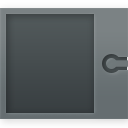
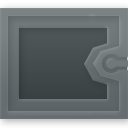
Adicionado ponteiros e zoom

Changed region(s): [[0.0312, 0.0938, 0.9688, 0.9688], [0.7812, 0.4062, 1.0, 0.5938]]

diff --git a/Estrutura/core/src/com/mygdx/game/FilaScreen.java b/Estrutura/core/src/com/mygdx/game/FilaScreen.java
@@ -36,8 +36,8 @@ public class FilaScreen implements Screen, TextInputListener{
 		posRabo = 0;
 		quadValido = new Texture("coisa/quadradoPreenchido.png");
 		quadVazio = new Texture("coisa/quadradoVazio.png");
-		cabeca = new Texture("coisa/cabeca.png");
-		rabo = new Texture("coisa/rabo.png");
+		cabeca = new Texture("coisa/PonteiroInicio.png");
+		rabo = new Texture("coisa/PonteiroFim.png");
 		Gdx.input.getTextInput(this, "Fila Sequencial", "", "Tamanho da estrutura");
 		FilaSeq();
 		camera = new OrthographicCamera();
@@ -72,11 +72,11 @@ public class FilaScreen implements Screen, TextInputListener{
 		game.balde.setProjectionMatrix(camera.combined);
 		game.balde.begin();
 		game.balde.draw(fundo, -640, -360);
-		game.balde.draw(cabeca, -640, 0);
+		game.balde.draw(cabeca, -640, 50);
 		for(int i = 1; i <= elementos; i++) {
-				game.balde.draw(image(i), -640 + 129 +( 128 * (i - 1)), 0); //----
+				game.balde.draw(image(i), -640 + 230 +( 128 * (i - 1)), 0); //----
 			}
-		if(posRabo != 0) game.balde.draw(rabo, -640 + 129 + (128 * (posRabo - 1)), -129);
+		if(posRabo != 0) game.balde.draw(rabo, -640 + 290 + (128 * (posRabo - 1)), -220);
 		/*for(int i = 0; i < 50; i++) {			
 			game.balde.draw(setas[i], -640 + (32 * (i + 1) - 16), 0); 
 		}*/
@@ -98,12 +98,12 @@ public class FilaScreen implements Screen, TextInputListener{
 
 	private void setmoveCamera(float dt) {
 		
-		/*if(Gdx.input.isTouched()){
-			
-			System.out.println(" " + Gdx.input.getX());
-			camera.position.x = -Gdx.input.getX() +  (-640 + 129 * (19/2) + 382);
-			camera.position.y = Gdx.input.getY() - 300;
-			}*/
+		if (Gdx.input.isKeyPressed(Keys.A)) {
+			camera.zoom += 0.02;
+		}
+		if (Gdx.input.isKeyPressed(Keys.Q)) {
+			camera.zoom -= 0.02;
+		}
 		
 		
 		if(Gdx.input.isKeyPressed(Keys.LEFT) ) {

diff --git a/Estrutura/core/src/com/mygdx/game/ListaSeqScreen.java b/Estrutura/core/src/com/mygdx/game/ListaSeqScreen.java
@@ -91,12 +91,12 @@ public class ListaSeqScreen implements Screen, TextInputListener{
 
 	private void setmoveCamera(float dt) {
 		
-		/*if(Gdx.input.isTouched()){
-			
-			System.out.println(" " + Gdx.input.getX());
-			camera.position.x = -Gdx.input.getX() +  (-640 + 129 * (19/2) + 382);
-			camera.position.y = Gdx.input.getY() - 300;
-			}*/
+		if (Gdx.input.isKeyPressed(Keys.A)) {
+			camera.zoom += 0.02;
+		}
+		if (Gdx.input.isKeyPressed(Keys.Q)) {
+			camera.zoom -= 0.02;
+		}
 		
 		
 		if(Gdx.input.isKeyPressed(Keys.LEFT) ) {
